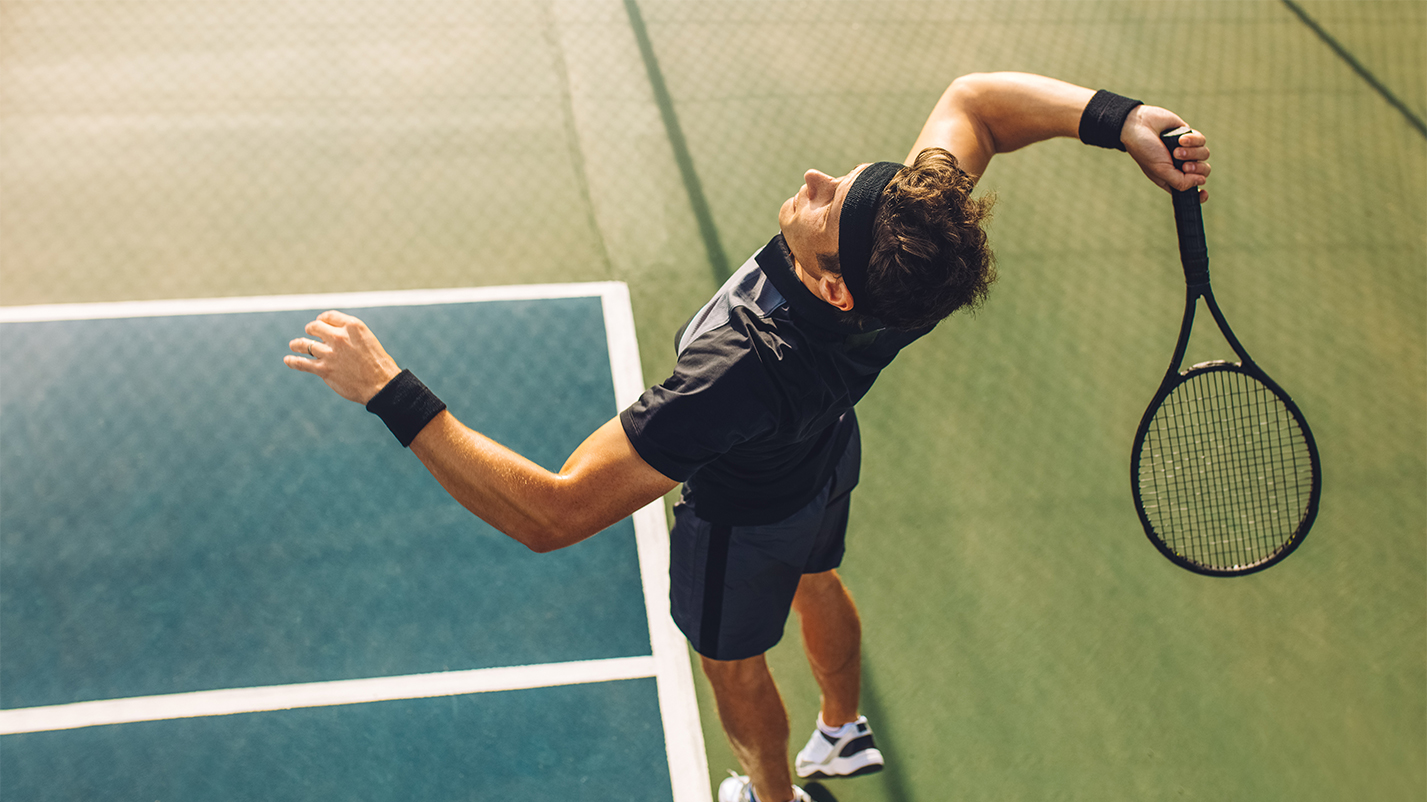
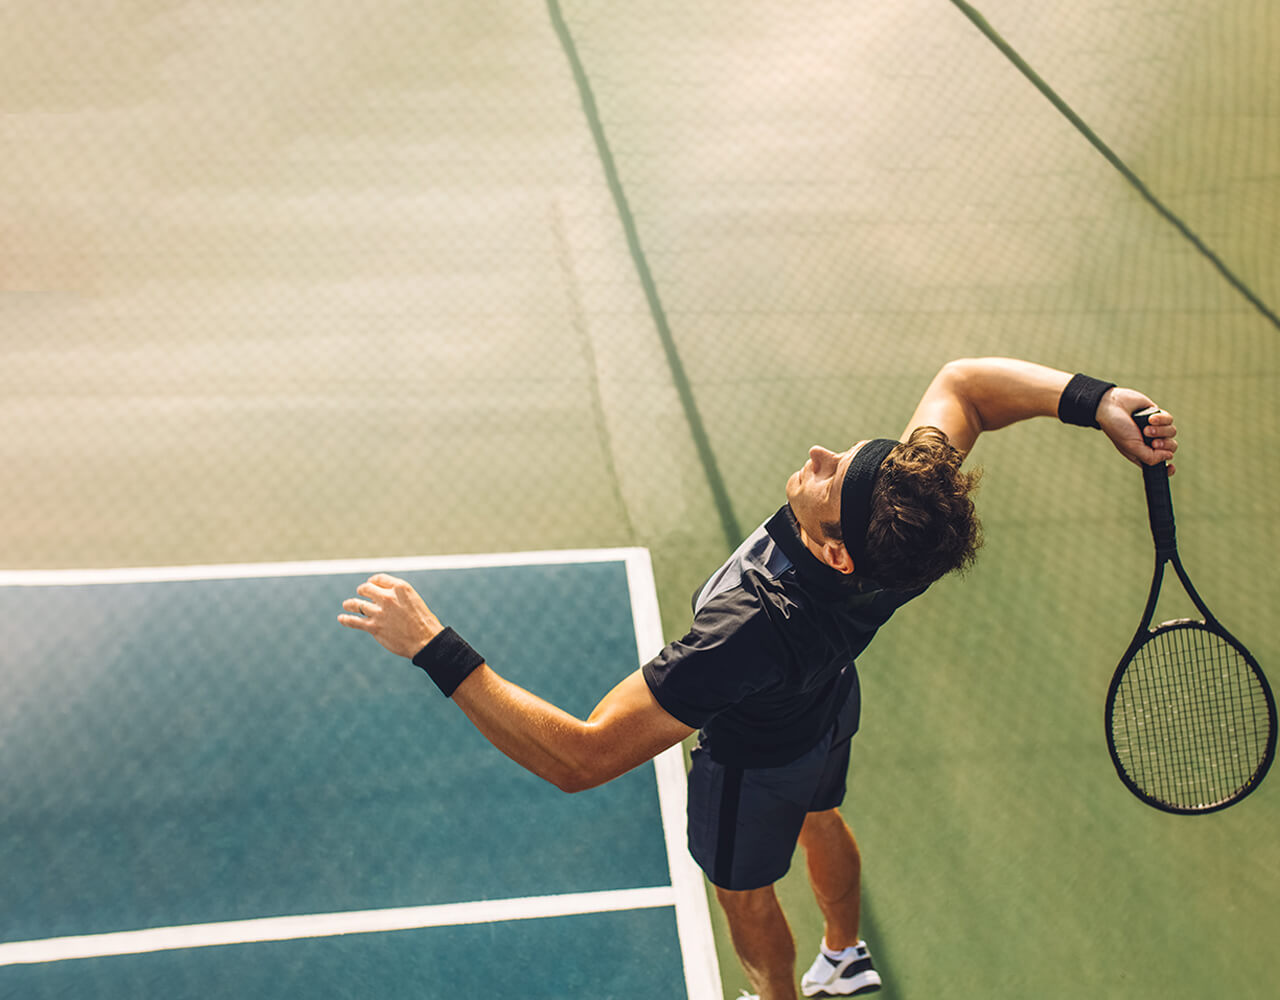
I have managed to get the background images for the contact and the upload to fit, although still am unsure of why there is a white space to the right of the footer. I have the contact form there too and have done checks through the validators for the pages and have 1 issue to address for the html a

diff --git a/contact.html b/contact.html
@@ -14,7 +14,6 @@
     <link rel="stylesheet" href="assets/css/style.css">
     <title>Go Tennis System | Home</title>
 </head>
-
 <body>
     <nav class="navbar navbar-expand-xs navbar-light bg-white fixed-top">
         <a class="navbar-brand" href="index.html"><img src="assets/images/go-logo.svg" height="70" width="200"
@@ -27,21 +26,21 @@
             <div class="dropdown-menu dropdown-menu-right text-right" aria-labelledby="dropdownMenuButton">
                 <a class="nav-link" href="index.html"><i class="fas fa-home"></i> Home</a>
                 <a class="nav-link" href="index.html#about"><i class="far fa-address-card"></i> About</a>
-                <a class="nav-link active" href="upload.html"><i class="fas fa-upload"></i> Upload</a>
-                <a class="nav-link" href="contact.html"><i class="far fa-paper-plane"></i> Contact</a>
+                <a class="nav-link" href="upload.html"><i class="fas fa-upload"></i> Upload</a>
+                <a class="nav-link active" href="contact.html"><i class="far fa-paper-plane"></i> Contact</a>
             </div>
         </div>
     </nav>
     <section class="form-section">
-        <img src="assets/images/upload.jpg" alt="Tennis player serving on court" class="upload-pic">
+        <img src="assets/images/contact.jpg" alt="Tennis player serving on court" class="contact-pic">
         <div class="row">
-            <h4 class="submit-heading">Submit and showcase your skills</h4>
-            <p class="donate">Please donate, fill in the form and upload your video. <br> Our friendly coaches will get
-                back to you with our thoughts and constructive feedback.</p>
+            <h4 class="contact-heading">Like what you’ve seen and keen to know more?</h4>
+            <p class="contact">Please get in touch to ask us any questions or to let us know <br> how we can help you to
+                better your experience and train your way.</p>
             <form class="signup-form" method="POST" action="https://formdump.codeinstitute.net/">
                 <label for="name">Your Name:</label>
                 <input type="text" id="name" name="name" class="text-input" required>
-                <label for="email">Your Email (that was used to donate):</label>
+                <label for="email">Your Email:</label>
                 <input type="email" name="email_address" id="email" class="text-input" required>
                 <label for="phone">Your Phone Number:</label>
                 <input type="text" id="phone_number" name="phone_number" class="text-input" required>
@@ -50,46 +49,43 @@
                 <input type="radio" name="contact_preference" id="phone" value="phone" required>
                 <label for="email">Email</label>
                 <input type="radio" name="contact_preference" id="email_address" value="email" required>
-                <button type="submit" class="btn btn-success upload-button">
-                    Upload <i class="fas fa-upload"></i>
+                <textarea style="width:440px; height:150px;"></textarea>
+                <button type="submit" class="btn btn-success submit-button">Submit <i class="far fa-paper-plane"></i>
                 </button>
-                <p>To upload your footage please click <a class="we-transfer" href="https://wetransfer.com/" target="_blank">here</a></p>
-                <p>I would like to make a donation that will shared with the supporting charities. <a href="https://www.paypal.com/" target="_blank"><i class="fab fa-cc-paypal"></i></a></p>
             </form>
         </div>
     </section>
     <footer class="footer">
-        <div class="d-flex p-3 flex-nowrap justify-content-between title">
+        <div class="d-flex p-3 flex-nowrap justify-content-between title clear:both">
             <div class="sponsored">Sponsors:</div>
             <div class="follow">Follow us:</div>
             <div class="supporting">Supporting:</div>
         </div>
         <div class="d-flex p-3 flex-nowrap justify-content-between">
             <div class="sponsors">
-                <img class="list-inline-item" src="assets/images/babolat.png" height="20" width="80"
-                    alt="Babolat logo">
+                <img class="list-inline-item" src="assets/images/babolat.png" height="20" width="80" alt="Babolat logo">
                 <img class="list-inline-item" src="assets/images/lta-britain.png" height="20" width="70"
                     alt="LTA Tennis for Britain logo"></div>
             <div class="social-media">
                 <ul>
-                    <li class="list-inline-item social-media"><a href="https://www.facebook.com/gotennissystem" target="_blank"><i
-                                class="fab fa-facebook-square" aria-hidden="true"></i>
+                    <li class="list-inline-item social-media"><a href="https://www.facebook.com/gotennissystem"
+                            target="_blank"><i class="fab fa-facebook-square" aria-hidden="true"></i>
                             <span class="sr-only">Facebook</span></a></li>
-                    <li class="list-inline-item social-media"><a href="https://instagram.com/gotennissystem?igshid=1waksnkd1kttd"
-                            target="_blank"><i class="fab fa-instagram" aria-hidden="true"></i>
+                    <li class="list-inline-item social-media"><a
+                            href="https://instagram.com/gotennissystem?igshid=1waksnkd1kttd" target="_blank"><i
+                                class="fab fa-instagram" aria-hidden="true"></i>
                             <span class="sr-only">Instagram</span></a></li>
                     <li class="list-inline-item social-media"><a href="https://www.youtube.com/" target="_blank"><i
                                 class="fab fa-youtube" aria-hidden="true"></i>
                             <span class="sr-only">YouTube</span></a></li>
-                    <li class="list-inline-item social-media"><a href="tel:07000000000" target="_blank"><i class="fab fa-whatsapp"
-                                aria-hidden="true"></i>
+                    <li class="list-inline-item social-media"><a href="tel:07000000000" target="_blank"><i
+                                class="fab fa-whatsapp" aria-hidden="true"></i>
                             <span class="sr-only">Whatsapp</span></a></li>
                 </ul>
             </div>
             <div class="supporting-logos">
                 <a href="https://www.dogstrust.org.uk/" target="_blank"><img class="list-inline-item"
-                        src="assets/images/dogs-trust.png" height="20" width="60"
-                        alt="Dogs Trust logo"></a>
+                        src="assets/images/dogs-trust.png" height="20" width="60" alt="Dogs Trust logo"></a>
                 <a href="https://www.chesterfieldanimalrescue.org.uk/" target="_blank"><img class="list-inline-item"
                         src="assets/images/chesterfield-rescue.png" height="30" width="70"
                         alt="Chesterfield Animal Rescue logo"></a>

diff --git a/assets/css/style.css b/assets/css/style.css
@@ -20,7 +20,7 @@
     color: #2a5490;
 }
 
-.a .nav-link .active {
+.active {
     color: #12a1ee;
 }
 
@@ -191,6 +191,7 @@ if you find the colour for white this may help
 
 .carousel-indicators li {
     background-color: #2a5490;
+    position: relative;
 }
 
 
@@ -210,13 +211,16 @@ if you find the colour for white this may help
 .submit-heading { 
     font-family: Montserrat, sans-serif;
     color: #2a5490;
-    margin-top: 17%;
-    margin-left: 42px;
+    margin-top: 140px;
+    margin-left: 61px;
+   
 }
 
 p.donate {
     font-family: Montserrat, sans-serif;
-    margin-left: 42px;
+    margin-top: 10px;
+    margin-left: 61px;
+    margin-right: 200px;
 }
 
 
@@ -250,7 +254,6 @@ p.donate {
     max-width: auto;
     max-height: auto;
     padding: 0;
-    margin: 0;
     z-index: -1;
 }
 
@@ -269,9 +272,9 @@ p.donate {
     font-family: Montserrat, sans-serif;
     margin-top: 280px;
     background-color: rgba(255, 255, 255, 0.555);
-    max-width: 400px;
+    max-width: 500px;
     position: absolute;
-    left: 5%;
+    left: 45px;
     padding: 30px;
 }
 
@@ -294,7 +297,6 @@ p.donate {
     font-size: 100%;
     background-color: #df6530;
     border-color: #df6530;
-    
     color: #fff;
     display: block;
 }
@@ -314,12 +316,83 @@ p.donate {
 }
 
 
+/* ------------------------------------------- Contact Text */
+
+.contact-heading { 
+    font-family: Montserrat, sans-serif;
+    color: #2a5490;
+    margin-top: 140px;
+    margin-left: 61px; 
+}
+
+p.contact {
+    font-family: Montserrat, sans-serif;
+    margin-top: 10px;
+    margin-left: 61px;
+    margin-right: 200px;
+}
 
 
+/* ------------------------------------------- Contact Form */
 
+.contact-pic {
+    position: absolute;
+    max-width: auto;
+    max-height: auto;
+    padding: 0;
+    z-index: -1;
+}
 
+/* taken from the Love Running Code Institute project and amended in places wo match what I am expecting to see based on my designs */
 
+.form-section {
+    clear: left;
+    background-size: cover;
+    background-position: center;
+    height: 900px;
+}
 
+.signup-form {
+    font-family: Montserrat, sans-serif;
+    margin-top: 260px;
+    background-color: rgba(255, 255, 255, 0.555);
+    max-width: 500px;
+    position: absolute;
+    left: 45px;
+    padding: 30px;
+}
+
+.text-input {
+    width: 100%;
+    height: 25px;
+    margin: 5px 0 20px 0;
+    border: 0.5px solid #000000;   
+}
+
+.text-input:hover {
+    border-color: #df6530;
+}
+
+.submit-button {
+    margin-top: 20px;
+    margin-bottom: 20px;
+    padding: 15px 32px 15px 32px;
+    text-align: center;
+    font-size: 100%;
+    background-color: #df6530;
+    border-color: #df6530;
+    color: #fff;
+    display: block;
+}
+
+.btn-success:hover {
+    background-color: #2a5490;
+    border-color: #2a5490;
+}
+
+.textarea {
+    height: auto;
+}
 
 
 /* ------------------------------------------- Footer */
@@ -361,8 +434,6 @@ p.donate {
     margin-top: -30px;
     padding-top: 0;
 }
-
-
 
 
 /* ------------------------------------------- Media Queries */

diff --git a/index.html b/index.html
@@ -24,7 +24,7 @@
             </button>
             <div class="dropdown-menu dropdown-menu-right text-right" aria-labelledby="dropdownMenuButton">
                 <a class="nav-link active" href="index.html"><i class="fas fa-home"></i> Home</a>
-                <a class="nav-link" href="#about"><i class="far fa-address-card"></i> About</a>
+                <a class="nav-link" href="index.html#about"><i class="far fa-address-card"></i> About</a>
                 <a class="nav-link" href="upload.html"><i class="fas fa-upload"></i> Upload</a>
                 <a class="nav-link" href="contact.html"><i class="far fa-paper-plane"></i> Contact</a>
             </div>
@@ -56,7 +56,7 @@
             will be glad you did.
         </p>
     </article>
-    <section class="about-section">
+    <section class="about-section" id="about">
         <article>
             <div class="about-us">
                 <div class="container">
